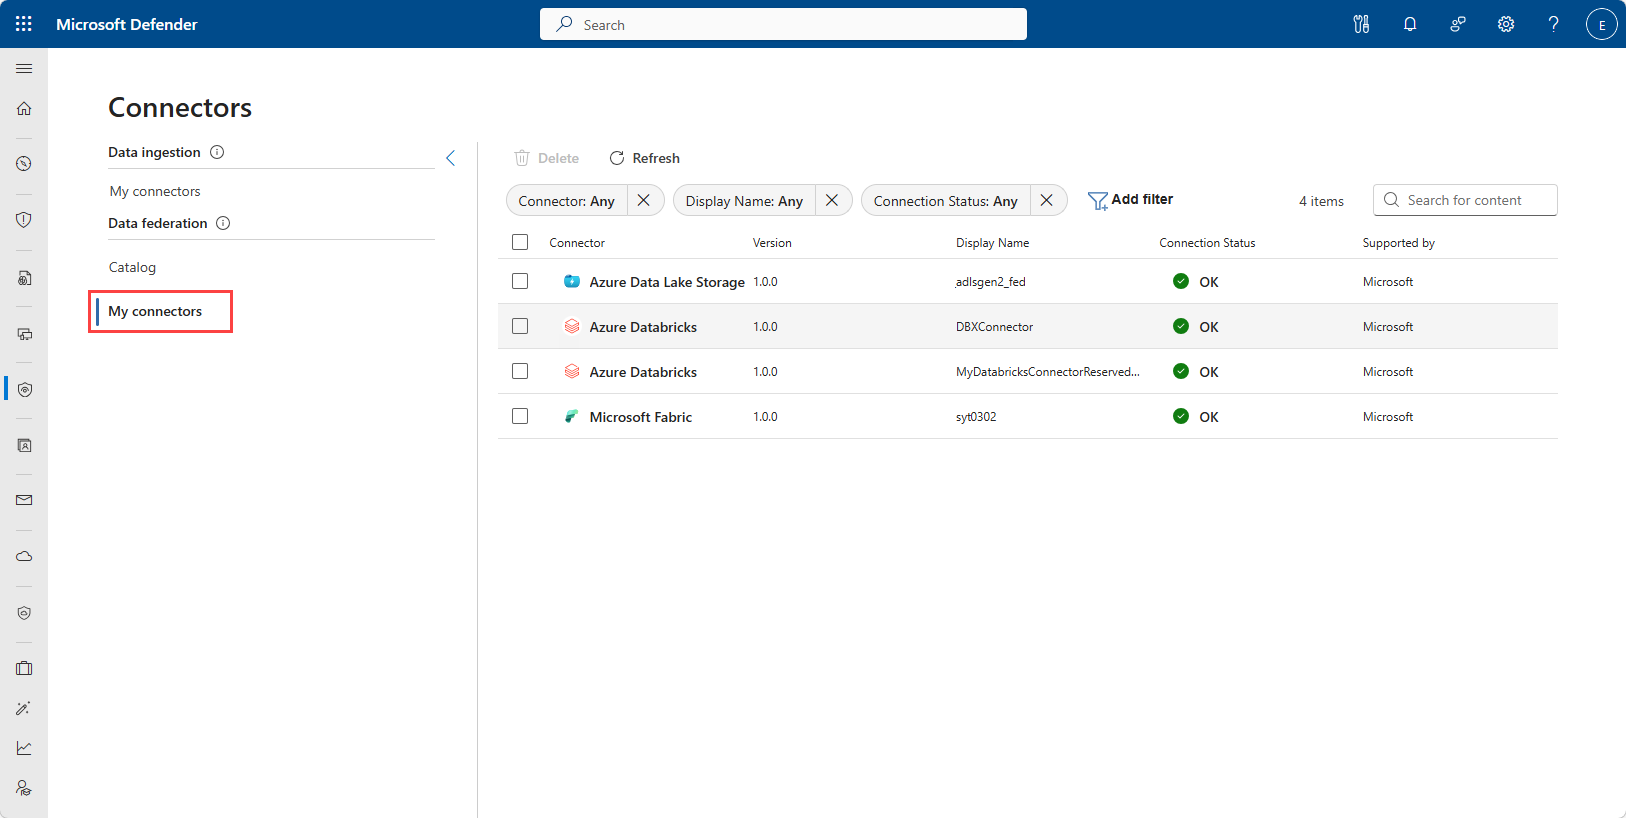
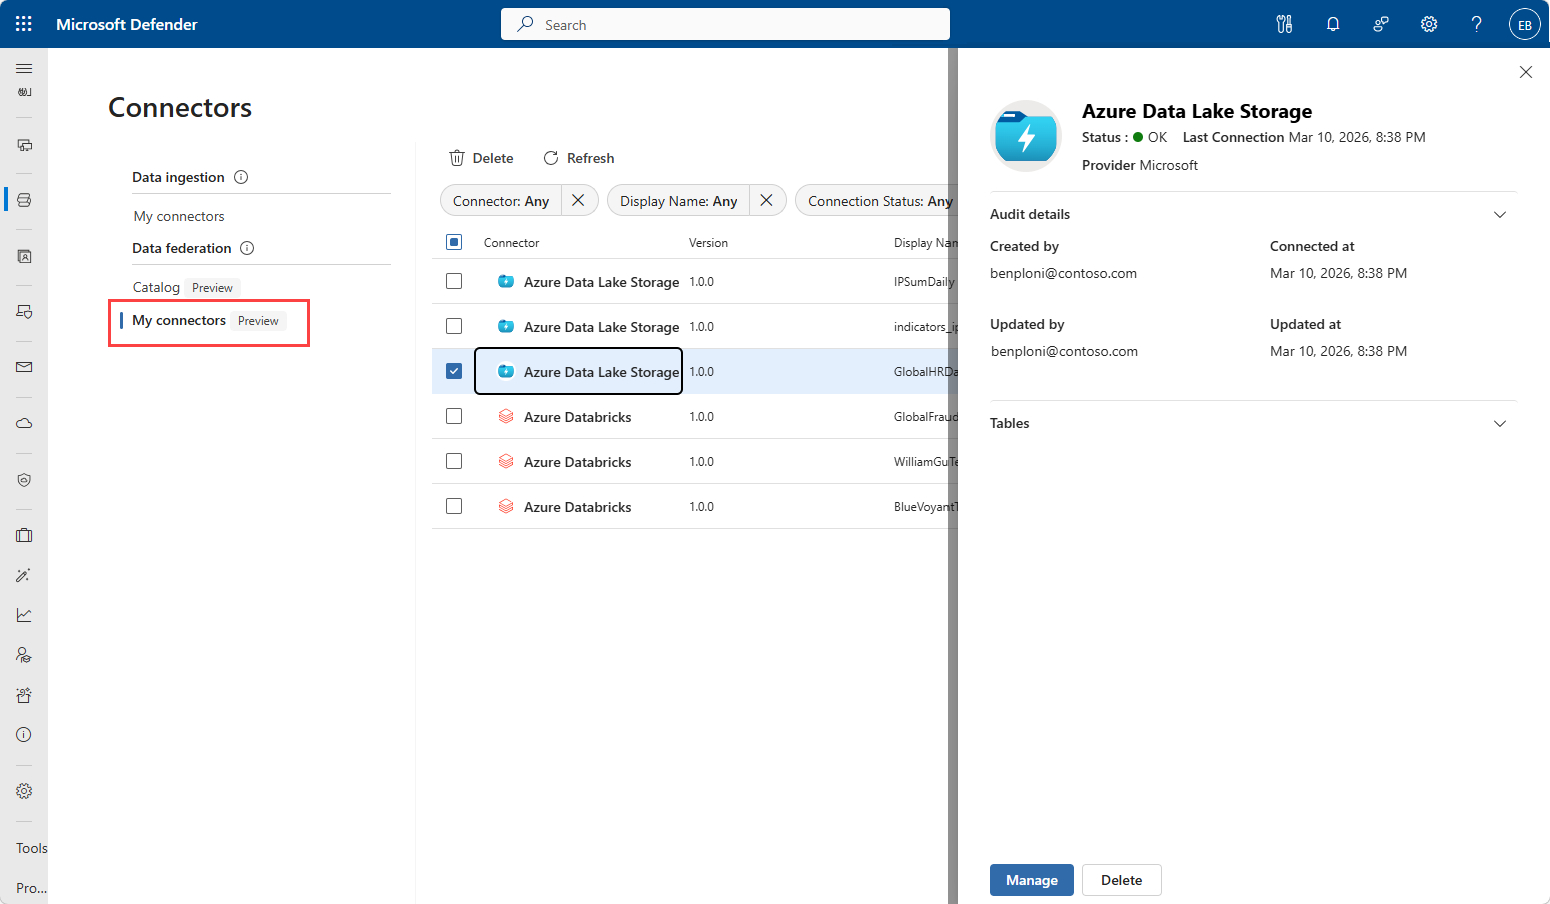
toc

diff --git a/articles/sentinel/datalake/data-federation-setup.md b/articles/sentinel/datalake/data-federation-setup.md
@@ -30,7 +30,7 @@ Before setting up data federation, ensure you meet the following requirements:
 - The external data source must be publicly accessible (private endpoints aren't supported)
 
 
-## Create a service principal for Azure Key Vault access
+## Create a service principal
 
 For Azure Databricks and ADLS Gen 2 federation, you need a service principal to securely access credentials stored in Azure Key Vault.
 
@@ -61,11 +61,12 @@ For more information on creating service principals, see [Microsoft Entra ID app
 1. **Create an Azure Key Vault**:
    1. In the Azure portal, create a new Azure Key Vault.
    1. Use the **Azure role-based access control (recommended)** permission model.
+   1. Enable soft delete and purge protection settings for the key vault. 
    1. Note the Key Vault URI after creation.
 
 1. **Configure Key Vault access**:
    1. Assign the **Key Vault Secrets Officer** role to your service principal on the Key Vault's **Access Control (IAM)** page.
-   1. Assign the **Key Vault Secrets User** role to the Microsoft Sentinel platform's managed identity. The system managed identity prefixed with `msg-resource`.
+   1. Assign the **Key Vault Secrets User** role to the Microsoft Sentinel platform's managed identity. The system managed identity prefixed with `msg-resources-`.
 
 
 1. **Store the client secret in Key Vault**:
@@ -82,18 +83,23 @@ Federated connectors are managed on the Data connectors page in Microsoft Sentin
 1. Navigate to **Microsoft Sentinel** > **Configuration** > **Data connectors**.
 1. Under **Data federation**, select **Catalog** to view the available federated connectors.
 
-:::image type="content" source="./media/data-federation-setup/federation-catalog.png" alt-text="Screenshot showing the data federation catalog with available connectors." lightbox="./media/data-federation-setup/federation-catalog.png":::
+    The catalog page displays:
+    - Available federation connector types
+    - Number of configured instances for each connector
+    - Publisher and support information
 
-The catalog page displays:
-- Available federation connector types
-- Number of configured instances for each connector
-- Publisher and support information
+   :::image type="content" source="./media/data-federation-setup/federation-catalog.png" alt-text="Screenshot showing the data federation catalog with available connectors." lightbox="./media/data-federation-setup/federation-catalog.png":::
 
-Select **My connectors page** to view all configured connector instances.
+
+1. Select **My connectors page** to view all configured connector instances.
+    The page lists your tenant's data federation connector instances along with their display name, version, status, and support provider. 
+1. Select each instance to view details, edit configurations, or delete the instance.
 
 :::image type="content" source="./media/data-federation-setup/my-connectors.png" alt-text="Screenshot showing the My connectors page with configured federation instances." lightbox="./media/data-federation-setup/my-connectors.png":::
 
 ## Create a connector instance
+
+The process for creating a connector instance varies based on the external data source you're connecting to. Follow the instructions for your specific data source type.
 
 # [Azure Data Lake Storage Gen 2](#tab/adls)
 
@@ -102,8 +108,8 @@ Select **My connectors page** to view all configured connector instances.
 Before creating the connector, prepare your storage account:
 
 1. If you're creating a new storage account, ensure the **Hierarchical namespaces** setting is enabled.
-1. Assign the **Storage Blob Data Reader** role to the service principal you created earlier.
-1. Take note of the ADLS Gen 2 storage account endpoint URL.
+1. Assign the **Storage Blob Data Reader** role to the service principal you created earlier. For more information on granting access through the Azure portal, see [Assign Azure roles using the Azure portal - Azure RBAC](/azure/role-based-access-control/role-assignments-portal).
+
 
 > [!NOTE]
 > The files in your ADLS Gen 2 storage account must be in delta parquet format to be read from the Sentinel data lake.
@@ -153,6 +159,7 @@ Select **Connect**, to complete the setup for the ADLS Gen 2 connector instance.
 Before creating the connector, configure access in your Databricks environment:
 
 1. In Azure Databricks, navigate to **Settings** > **Identity and Access**
+
 1. In your metastore, set **External data access** to **Enabled**.
 1.	In the catalog that you are federating with, select **Permissions** and then select **Grant**.
 1. Search for the service principal you created earlier.
@@ -204,9 +211,15 @@ After selecting **Connect**, the wizard closes and the instance count for Databr
 
 # [Microsoft Fabric](#tab/fabric)
 
-### Create the Microsoft Fabric connector instance
+### Create the Micro//soft Fabric connector instance
 
-Microsoft Fabric federation has simplified requirements compared to other sources.
+Before configuring the Fabric connector instance, you must set up permissions within the Microsoft Fabric environment to allow Microsoft Sentinel to access the data.
+
++ Configure the admin settings within Microsoft Fabric so that the tenant is enabled for External data sharing,  For more information, see [Create an external data share](fabric/governance/external-data-sharing-create)
+
++ Enable your instance so service principals can call Fabric public APIs.  For more information, see [Service principals can call Fabric public APIs](fabric/admin/service-admin-portal-developer#service-principals-can-call-fabric-public-apis)
+
++ Add the Sentinel platform identity and the service principal as a **Workspace Member** on the Lakehouse from which you want to federate tables. The sentinel platform identity is prefixed with `msg-resources-`.  For more information, see [Give access to workspaces](fabric/fundamentals/give-access-workspaces).
 
 1. On the **Data federation** > **Catalog** page, select the **Microsoft Fabric** row.
 1. In the side panel, select **Connect a connector**.
@@ -239,14 +252,27 @@ After creating a connector instance:
 
 1. Navigate to **Data federation** > **My connectors page**.
 1. Locate your new connector instance in the list.
-1. Select the instance row to open the details flyout.
+1. Select the instance row to open the details panel.
 
-:::image type="content" source="./media/data-federation-setup/connector-instance-details.png" alt-text="Screenshot showing connector instance details in the flyout panel." lightbox="./media/data-federation-setup/connector-instance-details.png":::
+:::image type="content" source="./media/data-federation-setup/connector-instance-details.png" alt-text="Screenshot showing the connector instance details panel." lightbox="./media/data-federation-setup/connector-instance-details.png":::
 
-The flyout displays:
-- Connection status
-- Configured tables
-- Connection properties
+## Verify tables from your connector instance
+
+After creating a connector instance check that the tables you federated are available in Microsoft Sentinel.
+
+1.	Navigate to **Microsoft Sentinel > Configuration > Tables**. 
+
+1.	Filter by Type **Federated** to see all federated tables.
+1.	Search by your connector instance name.
+1.	Tables from your connector instance are listed with their name followed by `_instance name`.  For example if your data connector instance name was `GlobalHRData` and your table was called `hrlogs`, your table name is shown as `hrlogs_GlobalHRData`.
+1.	Select a table from the list to open the details panel. 
+1. Select the **Overview** tab to see the table type and federation provider.
+1. Select the **Data source** tab to see the connector instance data provider and source product for the table.
+1. Select the **Schema** tab to see the table schema.
+1. On the **Schema** tab, select **Refresh** to refresh the table schema associated with the federated table.
+
+:::image type="content" source="./media/data-federation-setup/verify-tables.png" lightbox="./media/data-federation-setup/verify-tables.png" alt-text="Screenshot showing the federated table schema.":::
+
 
 ## Manage connector instances
 
@@ -254,10 +280,12 @@ To modify or delete a connector instance:
 
 1. Navigate to **Data federation** > **My connectors page**.
 1. Select the connector instance you want to manage.
-1. In the flyout panel, use the available options to:
+1. In the details panel, use the available options to:
    - Edit connection settings
    - Add or remove federated tables
    - Delete the connector instance
+    
+   :::image type="content" source="./media/data-federation-setup/my-connectors.png" alt-text="Screenshot showing the My Connectors page." lightbox="./media/data-federation-setup/my-connectors.png":::
 
 ## Troubleshooting
 

diff --git a/articles/sentinel/datalake/using-data-federation.md b/articles/sentinel/datalake/using-data-federation.md
@@ -15,7 +15,7 @@ ms.collection: ms-security
 
 # Use federated data sources in Microsoft Sentinel
 
-After setting up federated data connectors, you can access your federated tables through multiple interfaces in Microsoft Sentinel. This article explains how to view federated tables, query them using KQL, and work with them in Jupyter notebooks.
+After setting up federated data connectors, you can access your federated tables through multiple interfaces in Microsoft Sentinel. Federated tables are used in the same way as other data lake tables. This article explains how to view federated tables, query them using KQL, and work with them in Jupyter notebooks.
 
 ## Prerequisites
 
